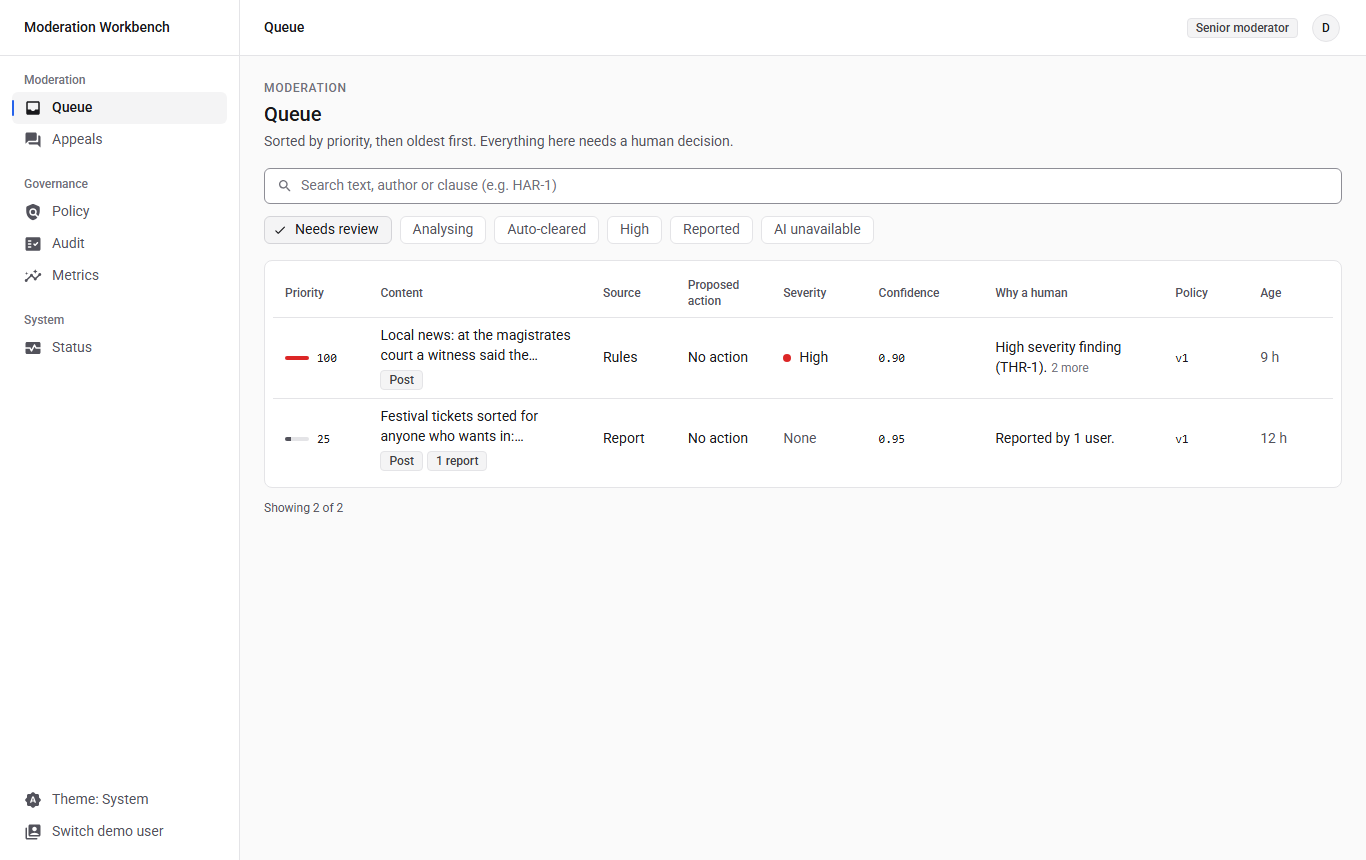
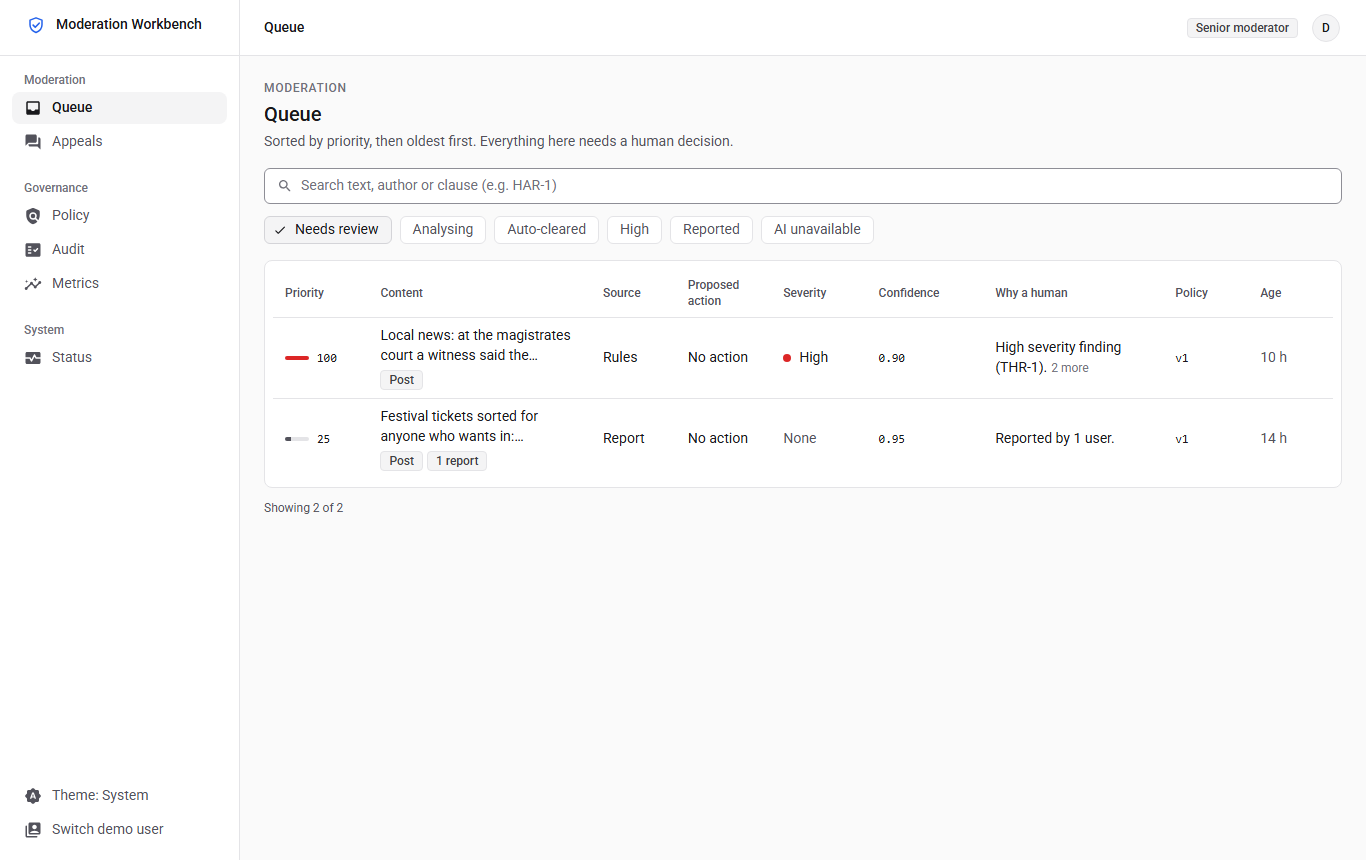
docs: 1.0.7 release record and screenshots from 96700e1

diff --git a/docs/RELEASE_NOTES.md b/docs/RELEASE_NOTES.md
@@ -1,5 +1,22 @@
 # Release notes
 
+## 1.0.7 (2026-11-08)
+
+- A brand mark (shield and check on a light accent tile) in the sidebar, the phone bar, sign-in and the status page,
+  and the same drawing as the tab icon.
+- Sidebar rows are rounded highlights 2 px apart; the case page carries the section label like every other page.
+- The recommendation says where its severity comes from ("from THR-1 rule").
+- Verify keeps a speculative interpretation (confidence below 0.4) at low severity and says why.
+- The audit table shows short entity ids and a Details column; the author's history says in one sentence where the
+  item stands and what happens next.
+
+No database migration.
+
+Post-deploy checks for `96700e1`, 2026-11-08 11:15 UTC (16:45 in India): `/api/health` reports `96700e1...` with the
+database connected; `/status` shows all six checks operational; `/api/audit/verify` reports `intact: true` over 53
+events; GitHub Actions run 42474772629 succeeded. The screenshots in `docs/screenshots` were retaken from this
+deployment.
+
 ## 1.0.6 (2026-11-08)
 
 - The recommendation's confidence is labelled as the AI's confidence in the whole result; per-finding rubric words
